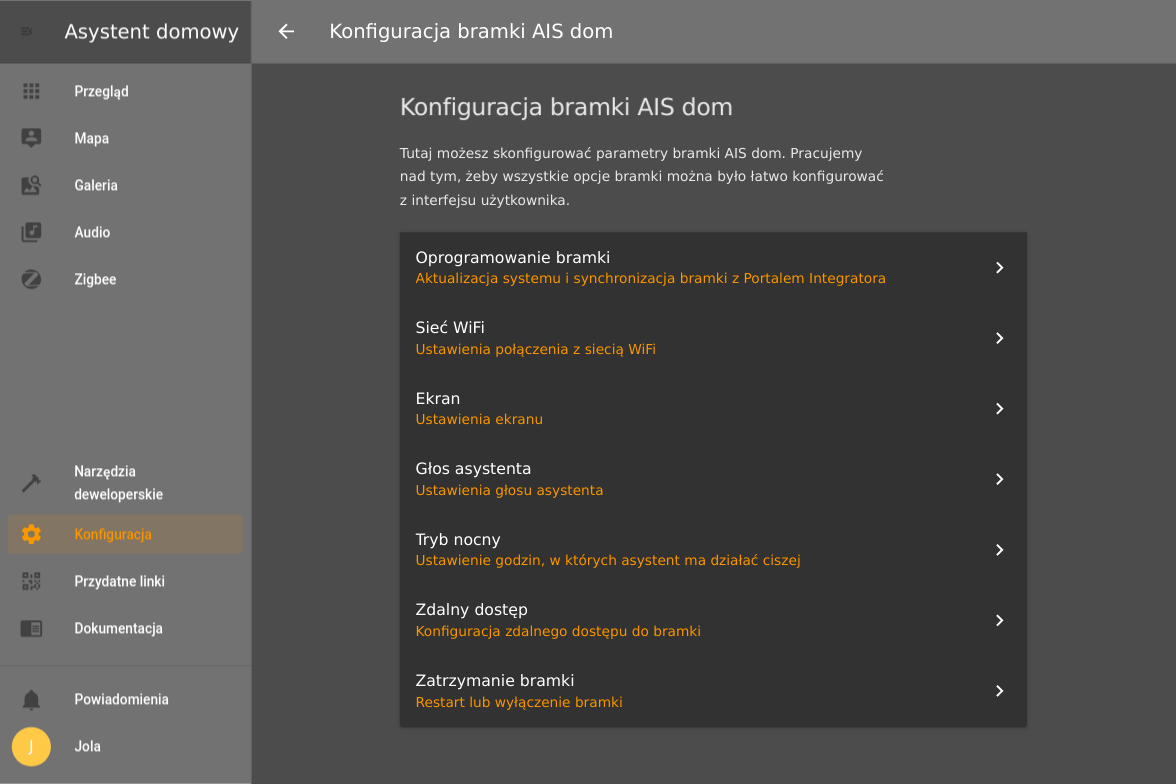
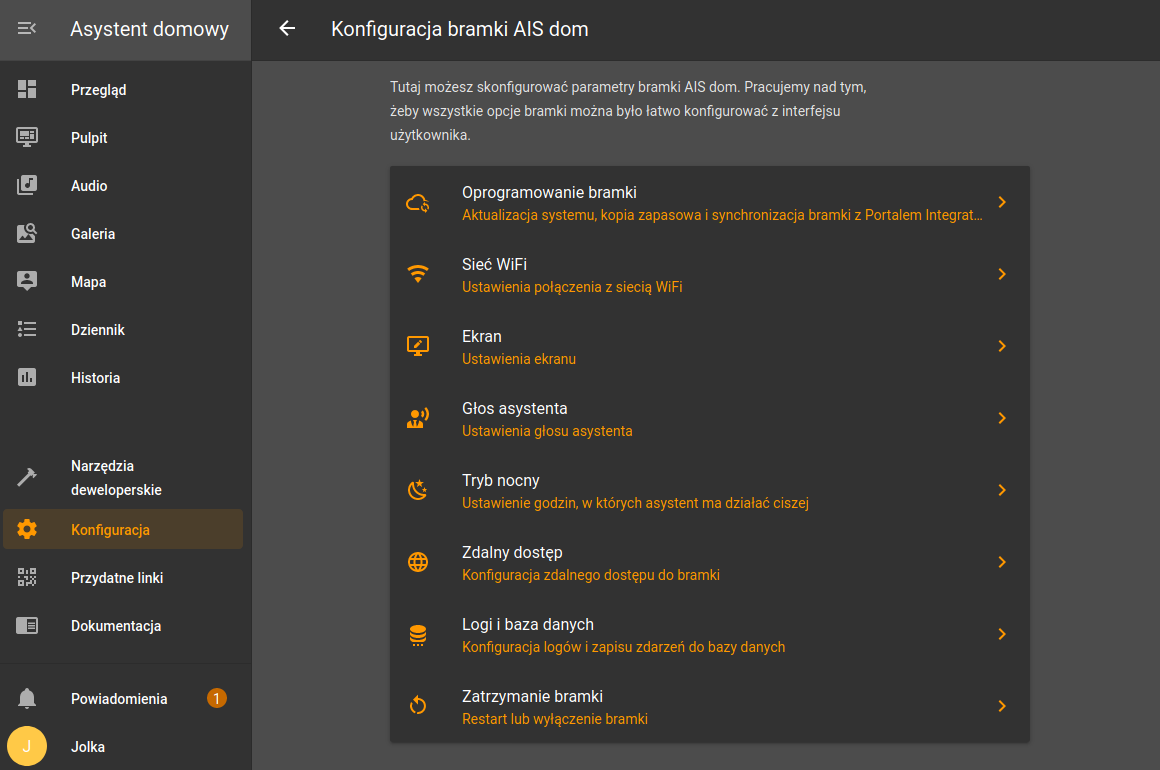
0.107.7 start

diff --git a/sidebars.js b/sidebars.js
@@ -25,6 +25,7 @@ module.exports = {
           "ais_bramka_configuration_tts",
           "ais_bramka_configuration_night_mode",
           "ais_bramka_configuration_remote_access",
+          "ais_bramka_configuration_logs_and_db",
           "ais_bramka_configuration_restart_stop"
         ]
       },
@@ -65,6 +66,7 @@ module.exports = {
   "Aplikacja": {
     "Aplikacja internetowa": [
       "ais_app_index",
+      "ais_app_dashboards",
       "ais_app_views",
       "ais_app_cards",
       "ais_app_ui_config"

diff --git a/docs/ais_app_ui_config.md b/docs/ais_app_ui_config.md
@@ -1,10 +1,10 @@
 ---
-title: "Konfiguracja interfejsu użytkownika"
-sidebar_label: Konfiguracja
+title: "Konfiguracja wybranego pulpitu"
+sidebar_label: Konfiguracja pulpitu
 ---
 
 ## Włączenie trybu konfiguracji
-Włączenie konfiguracji interfejsu użytkownika następuje poprzez wybranie w aplikacji opcji **"Konfiguracja interfejsu użytkownika"** dostępnej w prawym górnym rogu każdej strony w aplikacji.
+Włączenie konfiguracji wybranego pulpitu następuje poprzez wybranie w aplikacji opcji **"Konfiguracja interfejsu użytkownika"** dostępnej w prawym górnym rogu każdego pulpitu.
 
 ![Konfiguracja interfejsu użytkownika](/img/en/frontend/lovelace-ui-conf1.png)
 
@@ -75,69 +75,9 @@ To spowoduje wyświetlenie tekstowej, surowej wersji konfiguracji interfejsu
 
 Wersję tekstową możesz zapisać do pliku jako kopię zapasową, następnie można eksperymentować z własnymi ustwieniami. Gdyby coś poszło nie tak, to zawsze można wrócić do wersji pierwotnej poprzez wklejenie tekstowej wersji konfiguracji w tym miejscu.
 
-Moźesz też pobrać naszą domyślną konfigurację.
-Aktualna domyślna konfiguracja dostępna jest tu [Domyślna konfiguracja interfejsu użytkownika](https://raw.githubusercontent.com/sviete/AIS-utils/master/patches/scripts/lovelace)
 
+### Reset pulpitu
 
-### Własny interfejs użytkownika
+Jeżeli coś poszło nie tak z naszą konfiguracją pulpitu, to zawsze możemy go całkowicie wyczyścić i zacząć konfigurację od nowa. Wystarczy, będąc w trybie "Ręcznej konfiguracji" usunąć całą definicję pulpitu, a następnie zapisać zmiany.
 
-Gdy mamy potrzebę zmiany całego interfejsu użytkownika włącznie z trzema pierwszymi kartami - domyślnie zablokowanymi (nadpisywanymi przy uruchamianiu), możemy to zrobić dodając do pliku konfiguracyjnego configuration.yaml wpis:   
-
-```yaml
-lovelace:
-  mode: yaml
-```
-
-oraz utworzyć plik **ui-lovelace.yaml** w folderze ~/AIS (na urządzeniu) z wyglądem naszego interfejsu. Od tego momentu nie mamy już możliwości korzystania z wbudowanego edytora konfiguracji ale za to możemy modyfikować wszystkie zakładki interfejsu użytkownika.
-Warto przed włączeniem tej opcji skopiować aktualny wygląd interfejstu posługując się powyższą instrukcją [Kopia konfiguracji](#kopia-konfiguracji) i wkleić zawartość do pliku **ui-lovelace.yaml**. Od teraz możemy już zmieniać wszystkie zakładki wedle własnych upodobań.
-
-
-### Kalendarz Google
-
-W trybie ręcznej konfiguracji interfejsu możemy np. zintegrować swoje kalendarze w Google i wyświetlać je w interfejsie Asystenta. Ciekawym rozwiązaniem jest powiązanie kalendarza Google z aplikacją w telefonie z Androidem i wyświetlanie wpisów w Asystencie Domowym.
-
-#### Klucz api z Google
-
-Aby uruchomić integrację z kalendarzem Google należy wygenrować klucz api w aplikacji Google.
-[Integracja z Asystentem Domowym - generowanie klucza API](https://www.home-assistant.io/integrations/calendar.google/)
-
-Wymagana konfiguracja to dodanie wpisu do pliku configuration.yaml zgodnie z poniższą instrukcją:
-
-```yaml
-google:
-  client_id: YOUR_CLIENT_ID
-  client_secret: YOUR_CLIENT_SECRET
-```
-
-oraz dodanie wpisu do **ui-lovelace.yaml** i skopiowanie z [repozytorium https://github.com/ljmerza/calendar-card](https://github.com/ljmerza/calendar-card) zawartości calendar-card lub zainstalowanie pluginu calendar-card poprzez [HACS](https://github.com/custom-components/hacs).
-
-```yaml
-resources:
-  - url: /community_plugin/calendar-card/calendar-card.js
-    type: js
-```
-
-#### Wstawienie własnego kalendarza do karty interfejsu użytkownika:
-
-```yaml
-- type: "custom:calendar-card"
-  title: Kalendarz
-  progressBar: true
-  numberOfDays: 14
-  entities:
-    - calendar.nazwa_kalendarza
-```
-
-Edycja pliku google_calendars.yaml
-
-```yaml
-- cal_id: nazwa_kalendarza
-  entities:
-  - device_id: moj_kalendarz
-    ignore_availability: true
-    name: nazwa_kalendarza
-    track: true
-```
-Po uruchomieniu integracji z Google plik google_calendars.yaml zostanie wypełniony danymi wszystkich naszych kalendarzy, które możemy wykorzystać w Asystencie Domowym.
-
-Kalendarz Google ze świętami w Polsce możemy np. wykorzystać w automatyzacjach, które mają zadziałać tylko w święta lub w przypadku ustawienia "pobudki" nie uruchamiać zdarzenia w Święta 🥳
+![Konfiguracja interfejsu użytkownika reset](/img/en/frontend/lovelace_reset_dashboard.png)

diff --git a/blog/2020-04-08-release-notes.md b/blog/2020-04-08-release-notes.md
@@ -1,0 +1,69 @@
+---
+author: Jola AI-Speaker
+authorURL: https://github.com/sviete
+authorImageURL: https://avatars3.githubusercontent.com/u/43966761?s=460&v=4
+title: Wersja systemu 0.107.7
+---
+
+#  0.107.7
+
+## Pulpity, logi i baza danych
+
+
+:::important
+Migracja do nowej wersji będzie niestety bardziej skomplikowana niż normalna aktualizacja, ponieważ musimy odinstalować aplikację i zainstalować jej nową wersję (podpisaną naszym kluczem).
+Dokładną procedurę "krok po kroku" opisujemy na forum. **Zaplanuj sobie migrację, gdy będziesz miał czas (około jednej godziny), żeby wykonać spokojnie całość krok po kroku wg instrukcji:**
+
+[`Link do instrukcji na forum`](https://ai-speaker.discourse.group/t/wip-reczna-akualizacja-serwsiu-ais-dom-na-bramce/299).
+:::
+
+![Serwer](/img/en/blog/202003/new_server.png)
+
+**Jest to oczywiście "jednorazowa akcja", gdy będziemy już mieli zainstalowaną aplikację serwer, z wersją 2.x.x to kolejne jej aktualizacje serwera będą automatyczne tak jak dotychczas.**
+
+
+:::tip
+Nic się nie stanie, jeśli nie wykonasz migracji - nadal będziesz dostawał aktualizację aplikacji Asystent domowy.
+Wszystko będzie działało tak jak dotychczas. Nie będziesz miał jedynie dostępu do najnowszych usług takich jak włączanie mikrofonu czy odtwarzanie wideo.
+
+Jeśli coś pójdzie nie tak i nie uda Ci się wykonać migracji, to też nic się nie stanie. W takim przypadku napisz do nas na serwis `info@sviete.pl` i postaramy się pomóc - w najgorszym wypadku, wyślesz nam bramkę a my ją zaktualizujemy - oczywiście usługa bezpłatna, relax :)
+:::
+
+## Nowa strona dokumentacji
+
+Skoro tu jesteś, to pewnie zauważyłeś, że mamy nową stronę dokumentacji. Doszliśmy do wniosku, że wersjonowanie dokumentacji jest zbyt skomplikowane i że trzeba to zrobić prościej, od tej pory dokumentacja dotyczy jednej wersji - aktualnej.
+
+Stara strona działała na GitHub i zostawimy ją jeszcze, bo sporo linków do niej prowadzi, ale nie będziemy jej aktualizować.
+
+**Kilka dni zajmie zindeksowanie dokumentacji przez wyszukiwarkę - wyszukiwanie na nowej stronie zacznie działać poprawnie z czasem.**
+
+## API
+
+Mamy coraz więcej użytkowników, którzy mają fajne pomysły na wykorzystanie bramki. Mamy nadzieję, że opis API ułatwi każdemu wykonanie zaawansowanych automatyzacji (włączenie mikrofonu po otwarciu drzwi itd.) i integracji z innymi systemami (np. bramką Fibaro).
+
+
+Tu jest [`link do dokumentacji API`](/docs/ais_bramka_api_index)
+
+![Usługi](/img/en/frontend/services_2.png)
+
+
+## Przed aktualizacją
+
+:::tip
+UWAGA Przed aktualizacją zalecamy wykonać [`kopię zapasową konfiguracji`](/docs/ais_bramka_configuration_software#kopia-zapasowa-konfiguracji). W ten sposób sprawdzisz poprawność swojej konfiguracji przed rozpoczęciem aktualizacji i zwiększysz prawdopodobieństwo bezproblemowej aktualizacji.
+:::
+
+:::important
+W razie problemów po aktualizacji sprawdź procedurę [`Aktualizacja ręczna`](/docs/ais_bramka_update_manual) lub [`Wykonanie pełnego resetu aplikacji`](/docs/ais_bramka_reset_ais_step_by_step)- to może dotyczyć szczególnie osób, które instalują na bramce dodatkowe niestandardowe komponenty.
+:::
+
+
+## Home Assistant
+
+Najnowszy (stabilny) Home Assistant <a href="https://www.home-assistant.io/blog/2020/02/26/release-106/" target="_blank">0.106.6</a>
+
+
+----
+Zapraszamy do aktualizacji i [komentowania na forum :)](https://ai-speaker.discourse.group/)
+AI-Speaker 03/2020
+----

diff --git a/docs/ais_app_dashboards.md b/docs/ais_app_dashboards.md
@@ -1,0 +1,35 @@
+---
+title: "Pulpity nawigacyjne"
+sidebar_label: Pulpity nawigacyjne
+---
+
+Możesz tworzyć wiele konfiguracji interfejsu i zapisywać je jako "Pulpity nawigacyjne".
+
+Ta funkcjonalność pozwala na dostosowanie pulpitu do preferencji użytkownika oraz do możliwości urządzenia, na którym pulpit będzie prezentowany.
+Czyli możesz mieć pulpit z głównym układem (automatycznie generowanym), do wyświetlania w przeglądarce na desktopie, pulpity prezentujący wykresy na TV podłączonym do bramki, osobny pulpit dla dzieci, specjalny na tablet, który jest na ścianie, inny na telefonie, osobny z bardziej kolorowym tematem dla żony ;-) itp.
+
+![Przejście do konfiguracji pulpitów](/img/en/frontend/configure_dashboards.png)
+
+Każdy pulpit można również dodać do paska bocznego menu, z własnym tytułem i ikoną. Ponadto możliwe jest ograniczenie dostępu do pulpitu nawigacyjnego tylko dla użytkowników z rolą administratora.
+
+## Zarządzanie pulpitami
+
+Do konfiguracji pulpitów przechodzimy z głównego menu, wybierając opcję "Konfiguracja" a następnie "Dashboardy Lovelace":
+
+![Przejście do konfiguracji pulpitów](/img/en/frontend/menu_go_to_configure_dashboards.png)
+
+Następnie, żeby dodać nowy pulpit, naciskamy ikonkę "plus" po prawej stronie na dole i wypełniamy formatkę:
+
+![Dodanie nowego pulpitu](/img/en/frontend/configure_dashboards_add_new.png)
+
+
+Po utworzeniu pulpitu, możemy go ustawić jako domyślny na urządzeniu:
+
+![Wybranie pulpitu jako domyślnego na urządzeniu](/img/en/frontend/configure_dashboards_select_as_default.png)
+
+
+## Przejście do pulpitu
+
+Do pulpitu przechodzimy, klikając w jego ikonkę, w menu po lewej stronie lub poprzez wklejenie adresu URL pulpitu do pola wyszukiwania w przeglądarce.
+
+![Wybranie pulpitu](/img/en/frontend/configure_dashboards_select_to_edit.png)

diff --git a/docs/ais_bramka_configuration_logs_and_db.md b/docs/ais_bramka_configuration_logs_and_db.md
@@ -1,0 +1,29 @@
+---
+title: "Konfiguracja bramki - Logi i baza danych"
+sidebar_label: Logi i baza danych
+---
+
+
+W tej sekcji możesz skonfigurować zapis logów do pliku na wymiennym dysku oraz skonfigurować zapis zdarzeń do bazy danych.
+
+## Zapis logów systemu do pliku
+
+Żeby włączyć logowanie w systemie Asystent domowy, wystarczy wybrać lokalizację na dysku wymiennym, w której będzie zapisywany plik z rejestrem działań w systemie. Dodatkowo można też określić poziom szczegółowości logowania.
+
+
+![Konfiguracja zapisu logów](/img/en/bramka/bramka_ais_dom_config_logs.png)
+
+## Zapis zdarzeń do bazy danych
+
+W tej sekcji możemy wybrać silnik bazodanowy, do rejestracji zdarzeń.
+
+Najprostszy wybór to baza SQLite, która nie wymaga konfiguracji i może rejestrować dane w pamięci - taka baza jest automatycznie używana, gdy rejestracja zdarzeń włączana jest przez integrację (np. Historia lub Dziennik).
+
+Gdy system generuje więcej zdarzeń lub gdy chcesz mieć dostęp do historii, to zalecamy zapisywać zdarzenia na zewnętrznym dysku lub w zdalnej bazie danych.
+
+![Konfiguracja zapisu zdarzeń](/img/en/bramka/bramka_ais_dom_config_db.png)
+
+
+ Żeby utrzymać system w dobrej kondycji, codziennie dokładnie o godzinie 4:12 rano Asystent usuwa z bazy zdarzenia i stany starsze niż określona liczba dni (2 dni dla bazy w pamięci urządzenia i domyślnie 10 dla innych lokalizacji).  W tym miejscu możesz określić liczbę dni, których historia ma być przechowywana w zdalnej bazie danych.
+
+ ![Konfiguracja usuwania zdarzeń z bazy](/img/en/bramka/bramka_ais_dom_config_db2.png)

diff --git a/docs/ais_app_cards.md b/docs/ais_app_cards.md
@@ -3,22 +3,21 @@ title: "Karty"
 sidebar_label: Karty
 ---
 
-Widoki zawierają pogrupowane elementy systemu wyświetlane na kartach.
-
+Karty zawierają urządzenia z naszego domu oraz elementy z zewnętrznych usług, karty wyświetlane są w widokach.
 
 ## Typy kart
 
-W obecnej wersji mamy <a href="https://www.home-assistant.io/lovelace/" target="_blank">24 typy kart</a>, które możemy konfigurować i na których możemy umieszczać nasze elementy systemu.
+W obecnej wersji mamy [24 typy kart](https://www.home-assistant.io/lovelace/), które możemy konfigurować i na których możemy umieszczać nasze domowe urządzenia.
 Dodatkowo istnieje wiele typów kart tworzonych przez społeczność [repozytorium dodatkowych typów kart](https://github.com/custom-cards). Oczywiście zaawansowani użytkownicy mogą definiować własne typy kart.
 
 ![Przykład karty](/img/en/frontend/frontend-card-plant.png)
 
 ## Dodawanie karty
 
- W celu dopasowania interfejsu systemu do własnych potrzeb, możesz sam dodawać własne karty lub edytować już istniejące. Konfiguracja dostępna jest bezpośrednio z aplikacji (działającej w przeglądarce).
+W celu dopasowania interfejsu systemu do własnych potrzeb, możesz sam dodawać własne karty lub edytować już istniejące. Konfiguracja dostępna jest bezpośrednio z aplikacji (działającej w przeglądarce).
 
 ![Konfiguracja interfejsu użytkownika](/img/en/frontend/frontend-card-edit.png)
 
-## Włączenie konfiguracji
+## Włączenie konfiguracji wybranego pulpitu
 
 Włączenie konfiguracji opisane jest tu [Konfiguracja interfejsu użytkownika](/docs/ais_app_ui_config)

diff --git a/docs/ais_app_views.md b/docs/ais_app_views.md
@@ -3,25 +3,12 @@ title: "Widoki"
 sidebar_label: Widoki
 ---
 
-:::important
-W wersji 0.107, którą wydamy w kwietniu 2020 roku, dodana zostanie opcja konfiguracji wielu pulpitów (dashboards).
-Po dodaniu tej opcji zaktualizujemy ten opis.
-:::
+## Widoki na pulpicie
 
-Aby ułatwić nawigowanie po aplikacji, karty (grupy elementów) w interfejsie użytkownika pogrupowane są w widokach.
-
-## Domyślne widoki
-
-W dostępnym z aplikacji interfejsie użytkownika mamy domyślnie 2 widoki:
-
-|Dom|Urządzenia|
-|---|----------|
-
-![Asystent domowy](/img/en/blog/201912/lovelace_custom.png)
+Aby ułatwić nawigowanie po aplikacji, każdy pulpit może zawierać wiele widoków na każdym widoku można umieszczać karty (grupy elementów).
 
 
-* W pierwszym widoku **Dom** umieściliśmy informacje o tym, że interfejs można dostosować do własnych potrzeb / upodobań. Proponujemy zacząć od tej strony i dostosować ją do własnych potrzeb.
-* W widoku **Jednostki** automatycznie wypełniamy karty pozycjami spełniającymi określone kryteria, w ten sposób podpowiadamy jak możesz tworzyć własne karty. Sprawdź konfigurację kart w tym widoku i skopiuj ją do własnych widoków.
+![Asystent domowy](/img/en/frontend/lovelace_view.png)
 
 
 
@@ -33,6 +20,6 @@ Możesz sam tworzyć i zmieniać widoki (zakładki w aplikacji), np. możesz dod
 ![Konfiguracja interfejsu użytkownika](/img/en/frontend/lovelace-ui-conf2.png)
 
 
-## Włączenie konfiguracji
+## Włączenie konfiguracji wybranego pulpitu
 
 Włączenie konfiguracji opisane jest tu [Konfiguracja interfejsu użytkownika](/docs/ais_app_ui_config)
